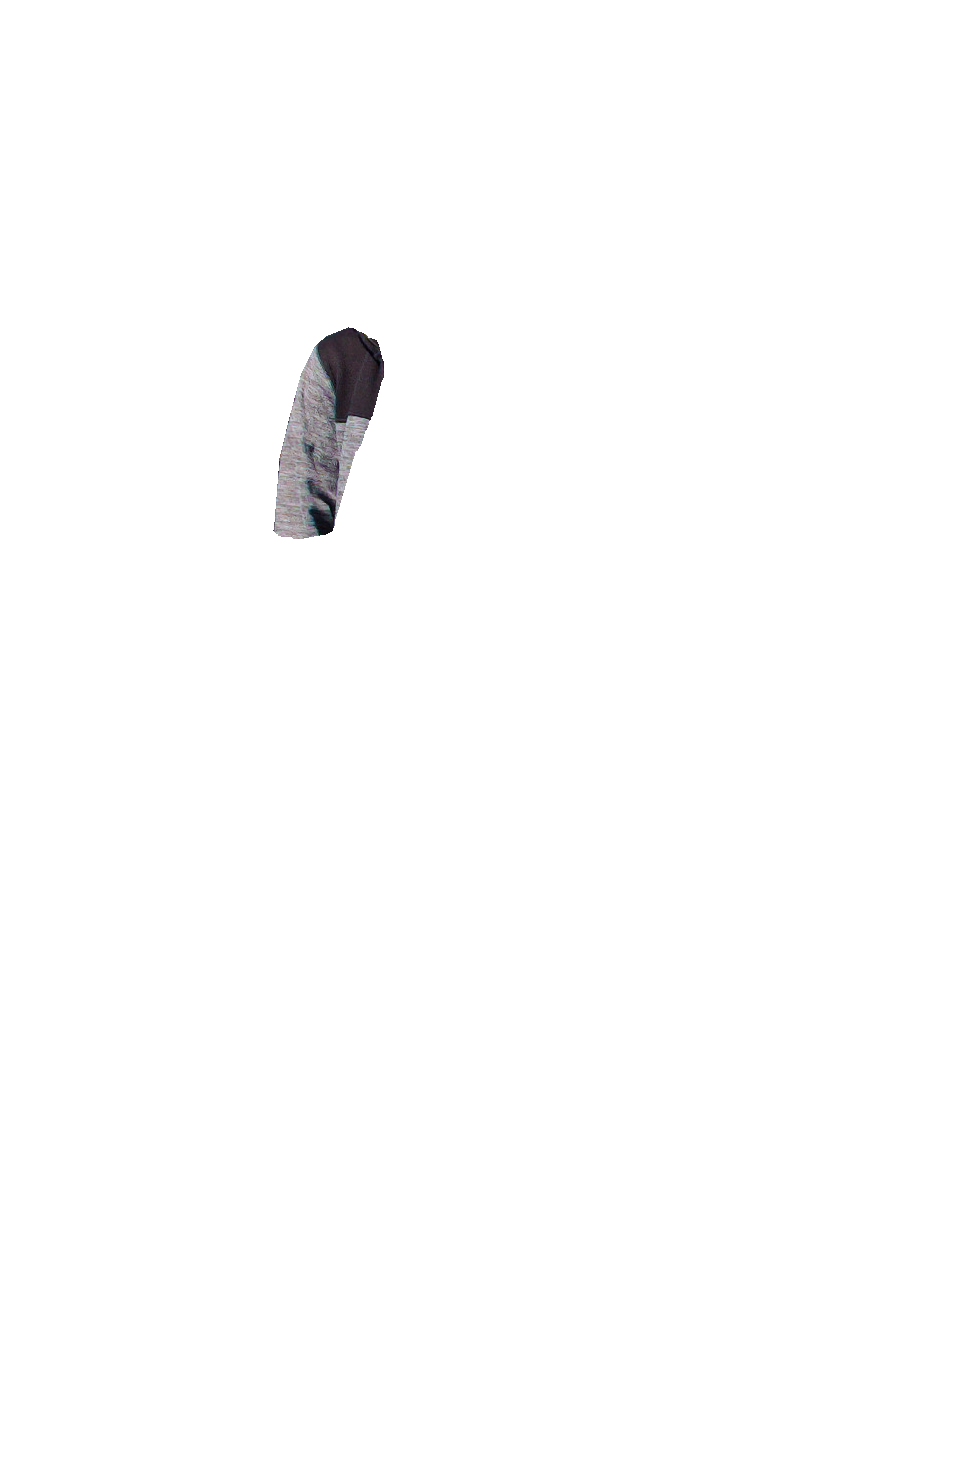
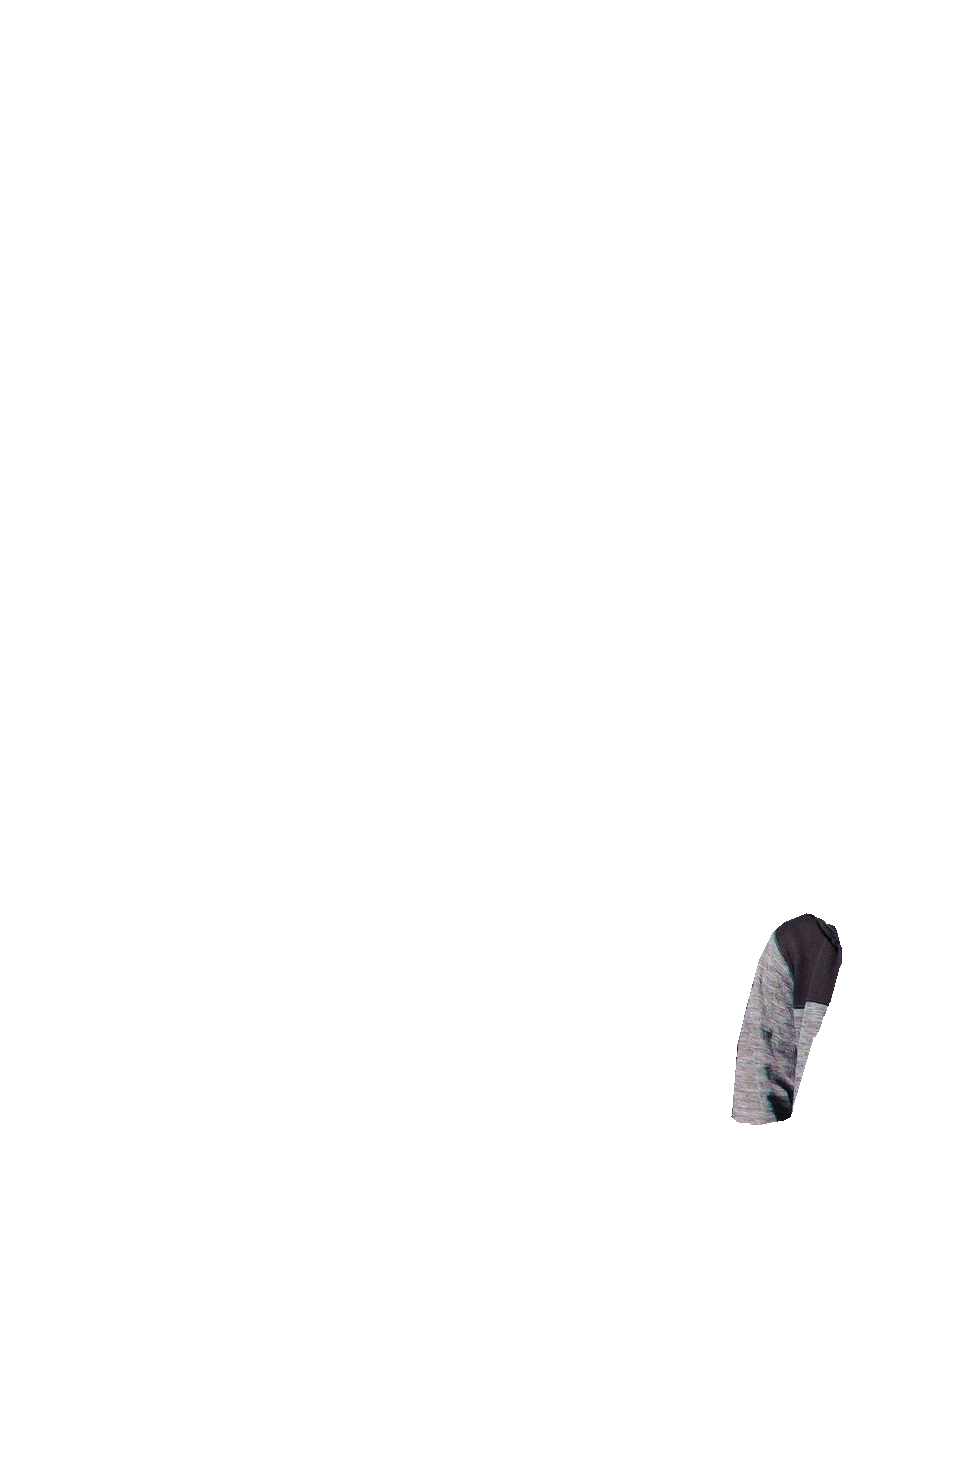
GetHumanBySkeleton

Changed region(s): [[0.7407, 0.6173, 0.8642, 0.7716], [0.2778, 0.216, 0.4012, 0.3704]]

diff --git a/MagickPhotoAnimationLib/Human.cs b/MagickPhotoAnimationLib/Human.cs
@@ -1,6 +1,7 @@
 using System;
 using System.Collections.Generic;
 using System.IO;
+using System.Linq;
 using System.Text;
 using ImageMagick;
 using MagickPhotoAnimationLib.Extensions;
@@ -22,11 +23,15 @@ namespace MagickPhotoAnimationLib
         private readonly MagickImageAndVector _legRBottom;
         private readonly MagickImageAndVector _legLBottom;
 
+        private readonly SkeletonPart _skeleton;
+        private readonly Dictionary<HumanSkeletonPartName, double> _skeletonRotations = new Dictionary<HumanSkeletonPartName, double>();
+        private readonly Dictionary<HumanSkeletonPartName, Point> _skeletonRotationShifts = new Dictionary<HumanSkeletonPartName, Point>();
+
         public Human(string imgDirPath, Point canvasSize)
         {
             _canvasSize = canvasSize;
-            _head = new MagickImageAndVector(Path.Combine(imgDirPath, "head.png"));
             _body = new MagickImageAndVector(Path.Combine(imgDirPath, "body.png"));
+            _head = new MagickImageAndVector(Path.Combine(imgDirPath, "head.png"));
             _armRTop = new MagickImageAndVector(Path.Combine(imgDirPath, "arm-R-top.png"));
             _armRBottom = new MagickImageAndVector(Path.Combine(imgDirPath, "arm-R-bottom.png"));
             _armLTop = new MagickImageAndVector(Path.Combine(imgDirPath, "arm-L-top.png"));
@@ -35,68 +40,126 @@ namespace MagickPhotoAnimationLib
             _legRBottom = new MagickImageAndVector(Path.Combine(imgDirPath, "leg-R-bottom.png"));
             _legLTop = new MagickImageAndVector(Path.Combine(imgDirPath, "leg-L-top.png"));
             _legLBottom = new MagickImageAndVector(Path.Combine(imgDirPath, "leg-L-bottom.png"));
+
+            _skeleton = new SkeletonPart
+            {
+                HumanSkeletonPartName = HumanSkeletonPartName.Body,
+                MagickImageAndVector = _body,
+                Children = new[]
+                {
+                    new SkeletonPart
+                    {
+                       HumanSkeletonPartName = HumanSkeletonPartName.Head,
+                       ParentTailPointName = "Head",
+                       MagickImageAndVector = _head
+                    },
+                    new SkeletonPart
+                    {
+                       HumanSkeletonPartName = HumanSkeletonPartName.ArmRTop,
+                       ParentTailPointName = "ArmR",
+                       MagickImageAndVector = _armRTop,
+                       Children = new[]
+                       {
+                           new SkeletonPart
+                           {
+                               HumanSkeletonPartName = HumanSkeletonPartName.ArmRBottom,
+                               ParentTailPointName = "Tail",
+                               MagickImageAndVector = _armRBottom,
+                           }
+                       }
+                    },
+                    new SkeletonPart
+                    {
+                       HumanSkeletonPartName = HumanSkeletonPartName.ArmLTop,
+                       ParentTailPointName = "ArmL",
+                       MagickImageAndVector = _armLTop,
+                       Children = new[]
+                       {
+                           new SkeletonPart
+                           {
+                               HumanSkeletonPartName = HumanSkeletonPartName.ArmLBottom,
+                               ParentTailPointName = "Tail",
+                               MagickImageAndVector = _armLBottom,
+                           }
+                       }
+                    },
+                    new SkeletonPart
+                    {
+                       HumanSkeletonPartName = HumanSkeletonPartName.LegRTop,
+                       ParentTailPointName = "LegR",
+                       MagickImageAndVector = _legRTop,
+                       Children = new[]
+                       {
+                           new SkeletonPart
+                           {
+                               HumanSkeletonPartName = HumanSkeletonPartName.LegRBottom,
+                               ParentTailPointName = "Tail",
+                               MagickImageAndVector = _legRBottom,
+                           }
+                       }
+                    },
+                    new SkeletonPart
+                    {
+                       HumanSkeletonPartName = HumanSkeletonPartName.LegLTop,
+                       ParentTailPointName = "LegL",
+                       MagickImageAndVector = _legLTop,
+                       Children = new[]
+                       {
+                           new SkeletonPart
+                           {
+                               HumanSkeletonPartName = HumanSkeletonPartName.LegLBottom,
+                               ParentTailPointName = "Tail",
+                               MagickImageAndVector = _legLBottom,
+                           }
+                       }
+                    },
+                }
+            };
         }
 
+        public Human(string imgDirPath, Point canvasSize, Dictionary<HumanSkeletonPartName, double> skeletonRotations)
+            :
+            this(imgDirPath, canvasSize)
+        {
+            _skeletonRotations = skeletonRotations;
+        }
         public MagickImage MagickImage
         {
             get
             {
+                ComputeRotationShift(HumanSkeletonPartName.Body, _body);
+                ComputeRotationShift(HumanSkeletonPartName.Head, _head);
+                ComputeRotationShift(HumanSkeletonPartName.ArmRTop, _armRTop);
+                ComputeRotationShift(HumanSkeletonPartName.ArmRBottom, _armRBottom);
+                ComputeRotationShift(HumanSkeletonPartName.ArmLTop, _armLTop);
+                ComputeRotationShift(HumanSkeletonPartName.ArmLBottom, _armLBottom);
+                ComputeRotationShift(HumanSkeletonPartName.LegRTop, _legRTop);
+                ComputeRotationShift(HumanSkeletonPartName.LegRBottom, _legRBottom);
+                ComputeRotationShift(HumanSkeletonPartName.LegLTop, _legLTop);
+                ComputeRotationShift(HumanSkeletonPartName.LegLBottom, _legLBottom);
+
                 var mainPivotPointShift = Pivot.Negate();
                 var canvasImage = new MagickImage(MagickColor.FromRgba(0, 0, 0, 0), (int)_canvasSize.X, (int)_canvasSize.Y);
-                
+
+                var shiftsForComposition = GetShiftsForComposition();
+
                 canvasImage.Composite(_body.MagickImage, Gravity.Center, mainPivotPointShift, CompositeOperator.Over);
-                
-                canvasImage.Composite(_head.MagickImage, Gravity.Center, mainPivotPointShift
-                    .Add(_body.GetPoint("Head"))
-                    .Subtract(_head.GetPoint("Pivot")), CompositeOperator.Over);
-                
-                canvasImage.Composite(_armRTop.MagickImage, Gravity.Center,
-                    mainPivotPointShift
-                    .Add(_body.GetPoint("ArmR"))
-                    .Subtract(_armRTop.GetPoint("Pivot")), CompositeOperator.Over);
 
-                canvasImage.Composite(_armRBottom.MagickImage, Gravity.Center,
-                    mainPivotPointShift
-                    .Add(_body.GetPoint("ArmR"))
-                    .Subtract(_armRTop.GetPoint("Pivot"))
-                    .Add(_armRTop.GetPoint("Tail"))
-                    .Subtract(_armRBottom.GetPoint("Pivot")), CompositeOperator.Over);
-
-                canvasImage.Composite(_armLTop.MagickImage, Gravity.Center,
-                    mainPivotPointShift
-                    .Add(_body.GetPoint("ArmL"))
-                    .Subtract(_armLTop.GetPoint("Pivot")), CompositeOperator.Over);
-
-                canvasImage.Composite(_armLBottom.MagickImage, Gravity.Center,
-                    mainPivotPointShift
-                    .Add(_body.GetPoint("ArmL"))
-                    .Subtract(_armLTop.GetPoint("Pivot"))
-                    .Add(_armLTop.GetPoint("Tail"))
-                    .Subtract(_armLBottom.GetPoint("Pivot")), CompositeOperator.Over);
-
-                canvasImage.Composite(_legRTop.MagickImage, Gravity.Center,
-                    mainPivotPointShift
-                    .Add(_body.GetPoint("LegR"))
-                    .Subtract(_legRTop.GetPoint("Pivot")), CompositeOperator.Over);
-
-                canvasImage.Composite(_legRBottom.MagickImage, Gravity.Center,
-                    mainPivotPointShift
-                    .Add(_body.GetPoint("LegR"))
-                    .Subtract(_legRTop.GetPoint("Pivot"))
-                    .Add(_legRTop.GetPoint("Tail"))
-                    .Subtract(_legRBottom.GetPoint("Pivot")), CompositeOperator.Over);
-
-                canvasImage.Composite(_legLTop.MagickImage, Gravity.Center,
-                    mainPivotPointShift
-                    .Add(_body.GetPoint("LegL"))
-                    .Subtract(_legLTop.GetPoint("Pivot")), CompositeOperator.Over);
-
-                canvasImage.Composite(_legLBottom.MagickImage, Gravity.Center,
-                    mainPivotPointShift
-                    .Add(_body.GetPoint("LegL"))
-                    .Subtract(_legLTop.GetPoint("Pivot"))
-                    .Add(_legLTop.GetPoint("Tail"))
-                    .Subtract(_legLBottom.GetPoint("Pivot")), CompositeOperator.Over);
+                foreach (var child in new[] {
+                    _head,
+                    _armRTop,
+                    _armRBottom,
+                    _armLTop,
+                    _armLBottom,
+                    _legRTop,
+                    _legRBottom,
+                    _legLTop,
+                    _legLBottom,
+                    _body
+                }.Reverse())
+                {
+                    canvasImage.Composite(child.MagickImage, Gravity.Center, shiftsForComposition[child], CompositeOperator.Over);
+                }
 
                 return canvasImage;
             }
@@ -105,6 +168,51 @@ namespace MagickPhotoAnimationLib
         public Point Pivot
         {
             get => _body.GetPoint("Pivot");
+        }
+
+        private Dictionary<MagickImageAndVector, Point> GetShiftsForComposition()
+        {
+            var shiftsForComposition = new Dictionary<MagickImageAndVector, Point>();
+            GetShiftsForComposition(_skeleton, ref shiftsForComposition, Pivot.Negate());
+            return shiftsForComposition;
+        }
+
+        private void GetShiftsForComposition(SkeletonPart skeletonPart, ref Dictionary<MagickImageAndVector, Point> shiftsForComposition, Point accumulatedShift)
+        {
+            var rotatedShift =
+                _skeletonRotationShifts.ContainsKey(skeletonPart.HumanSkeletonPartName)
+                ? _skeletonRotationShifts[skeletonPart.HumanSkeletonPartName]
+                : new Point(0, 0);
+
+            shiftsForComposition[skeletonPart.MagickImageAndVector] = accumulatedShift.Add(rotatedShift);
+
+            if (skeletonPart.Children != null)
+            {
+                foreach (var child in skeletonPart.Children)
+                {
+                    if (child.HumanSkeletonPartName == HumanSkeletonPartName.ArmLTop)
+                    {
+
+                    }
+
+                    var parentTailPointName = child.ParentTailPointName == null ? new Point(0, 0) : skeletonPart.MagickImageAndVector.GetPoint(child.ParentTailPointName);
+                    GetShiftsForComposition(child, ref shiftsForComposition,
+                        accumulatedShift.Add(parentTailPointName).Subtract(child.MagickImageAndVector.GetPoint("Pivot")));
+                }
+            }
+        }
+
+        private void ComputeRotationShift(HumanSkeletonPartName humanSkeletonPartName, MagickImageAndVector skeletonPartMagickImageAndVector)
+        {
+            if (!_skeletonRotations.ContainsKey(humanSkeletonPartName))
+            {
+                return;
+            }
+            var pivotBefore = skeletonPartMagickImageAndVector.Pivot;
+            skeletonPartMagickImageAndVector.Rotate(_skeletonRotations[humanSkeletonPartName], skeletonPartMagickImageAndVector.Pivot);
+            var pivotAfter = skeletonPartMagickImageAndVector.Pivot;
+            var rotationShift = pivotAfter.Subtract(pivotBefore);
+            _skeletonRotationShifts[humanSkeletonPartName] = rotationShift;
         }
     }
 }

diff --git a/MagickPhotoAnimationLib/MainWindow.xaml.cs b/MagickPhotoAnimationLib/MainWindow.xaml.cs
@@ -52,7 +52,7 @@ namespace MagickPhotoAnimationLib
 
             var compositeImage = new MagickImage(MagickColor.FromRgb(200, 255, 255), OutputScreenWidth, (int)(OutputScreenWidth / OutputScreenRatio));
 
-            const int degrees = 90;
+            const double degrees = 90;
             var camelRotated = camel.GetRotated(degrees, camelPivot);
             compositeImage.Composite(camel.MagickImage, Gravity.Center, CompositeOperator.Over);
             compositeImage.Composite(camelRotated.MagickImage, Gravity.Center, CompositeOperator.Over);
@@ -69,16 +69,6 @@ namespace MagickPhotoAnimationLib
                 camelRotatedTail.Add(camelRotatedPivotShift).Subtract(part2Pivot),
                 CompositeOperator.Over);
 
-
-            const int widthOfCanvasForHuman = 2000;
-
-            var background = new MagickImage(MagickColor.FromRgb(200, 255, 255), widthOfCanvasForHuman, (int)(widthOfCanvasForHuman / OutputScreenRatio));
-
-            var human = new Human(@"C:\Users\ondrej\MagickPhotoAnimationLib\images\ondra0", new Point(widthOfCanvasForHuman, widthOfCanvasForHuman / OutputScreenRatio));
-
-            background.Composite(human.MagickImage, Gravity.Center, CompositeOperator.Over);
-            PreviewImgInWpf(background);
-#if false
             const int testPointBlueSize = 40;
             const int testPointRedSize = 25;
             var testPointBlue = new MagickImage(MagickColor.FromRgb(0, 0, 255), testPointBlueSize, testPointBlueSize);
@@ -88,6 +78,29 @@ namespace MagickPhotoAnimationLib
             compositeImage.Composite(testPointBlue, Gravity.Center, camelTail, CompositeOperator.Over);
             compositeImage.Composite(testPointRed, Gravity.Center, camelRotatedPivot.Add(camelRotatedPivotShift), CompositeOperator.Over);
             compositeImage.Composite(testPointRed, Gravity.Center, camelRotatedTail.Add(camelRotatedPivotShift), CompositeOperator.Over);
+
+            PreviewImgInWpf(compositeImage);
+#if false
+            const int widthOfCanvasForHuman = 2000;
+
+            var background = new MagickImage(MagickColor.FromRgb(200, 255, 255), widthOfCanvasForHuman, (int)(widthOfCanvasForHuman / OutputScreenRatio));
+
+            var human = new Human(
+                @"C:\Users\ondrej\MagickPhotoAnimationLib\images\ondra0",
+                new Point(widthOfCanvasForHuman, widthOfCanvasForHuman / OutputScreenRatio),
+                new Dictionary<HumanSkeletonPartName, double>
+                {
+                    //{ HumanSkeletonPartName.Body, -5 },
+                    { HumanSkeletonPartName.Head, -60 },
+                    { HumanSkeletonPartName.ArmRTop, -90 },
+                    { HumanSkeletonPartName.ArmLTop, -70 },
+                    { HumanSkeletonPartName.LegRTop, 90 },
+                    { HumanSkeletonPartName.LegLTop, -90 },
+                }
+                );
+
+            background.Composite(human.MagickImage, Gravity.Center, CompositeOperator.Over);
+            PreviewImgInWpf(background);
 #endif
 #if false
             var startImg = new MagickImage(@"C:\Users\ondrej\MagickPhotoAnimationLib\images\1.jpg");

diff --git a/MagickPhotoAnimationLib/MagickImageAndVector.cs b/MagickPhotoAnimationLib/MagickImageAndVector.cs
@@ -27,6 +27,11 @@ namespace MagickPhotoAnimationLib
             return Vector.Points[VectorLoader.VectorTypes[Vector.TypeKey].TakeWhile(x => x != name).Count()];
         }
 
+        public Point Pivot
+        {
+            get => GetPoint("Pivot");
+        }
+
         public MagickImageAndVector GetRotated(double degrees, Point pivotPoint)
         {
             var canvasImageSize = 2 * (int)Math.Sqrt(Math.Pow(MagickImage.Width, 2) + Math.Pow(MagickImage.Height, 2));
@@ -49,6 +54,13 @@ namespace MagickPhotoAnimationLib
                 MagickImage = newMagickImage,
                 Vector = vectorRotated
             };
+        }
+
+        public void Rotate(double degrees, Point pivotPoint)
+        {
+            var rotated = GetRotated(degrees, pivotPoint);
+            MagickImage = rotated.MagickImage;
+            Vector = rotated.Vector;
         }
     }
 }

diff --git a/VectorDesigner/MainWindow.xaml.cs b/VectorDesigner/MainWindow.xaml.cs
@@ -66,7 +66,7 @@ namespace VectorDesigner
             Content = canvas1;
             _canvas = canvas1;
 
-#if true
+#if false
             Open(@"C:\Users\ondrej\MagickPhotoAnimationLib\images\camel.png");
 #endif
 #if false
@@ -351,7 +351,7 @@ namespace VectorDesigner
         private void Open()
         {
             OpenFileDialog openFileDialog = new OpenFileDialog();
-            openFileDialog.InitialDirectory = @"C:\Users\ondrej\MagickPhotoAnimationLib\images";
+            openFileDialog.InitialDirectory = @"C:\Users\ondrej\MagickPhotoAnimationLib\images\ondra0";
             openFileDialog.Filter = "Image files|*.png;*.jpg;*.jpeg;";
             if (openFileDialog.ShowDialog() != true)
             {

diff --git a/MagickPhotoAnimationLib/SkeletonPart.cs b/MagickPhotoAnimationLib/SkeletonPart.cs
@@ -1,0 +1,14 @@
+using System;
+using System.Collections.Generic;
+using System.Text;
+
+namespace MagickPhotoAnimationLib
+{
+    internal class SkeletonPart
+    {
+        public HumanSkeletonPartName HumanSkeletonPartName;
+        public string ParentTailPointName;
+        public MagickImageAndVector MagickImageAndVector;
+        public SkeletonPart[] Children;
+    }
+}

diff --git a/MagickPhotoAnimationLib/HumanSkeletonPartName.cs b/MagickPhotoAnimationLib/HumanSkeletonPartName.cs
@@ -1,0 +1,20 @@
+using System;
+using System.Collections.Generic;
+using System.Text;
+
+namespace MagickPhotoAnimationLib
+{
+    internal enum HumanSkeletonPartName
+    {
+        Body,
+        Head,
+        ArmRTop,
+        ArmRBottom,
+        ArmLTop,
+        ArmLBottom,
+        LegRTop,
+        LegRBottom,
+        LegLTop,
+        LegLBottom
+    }
+}
